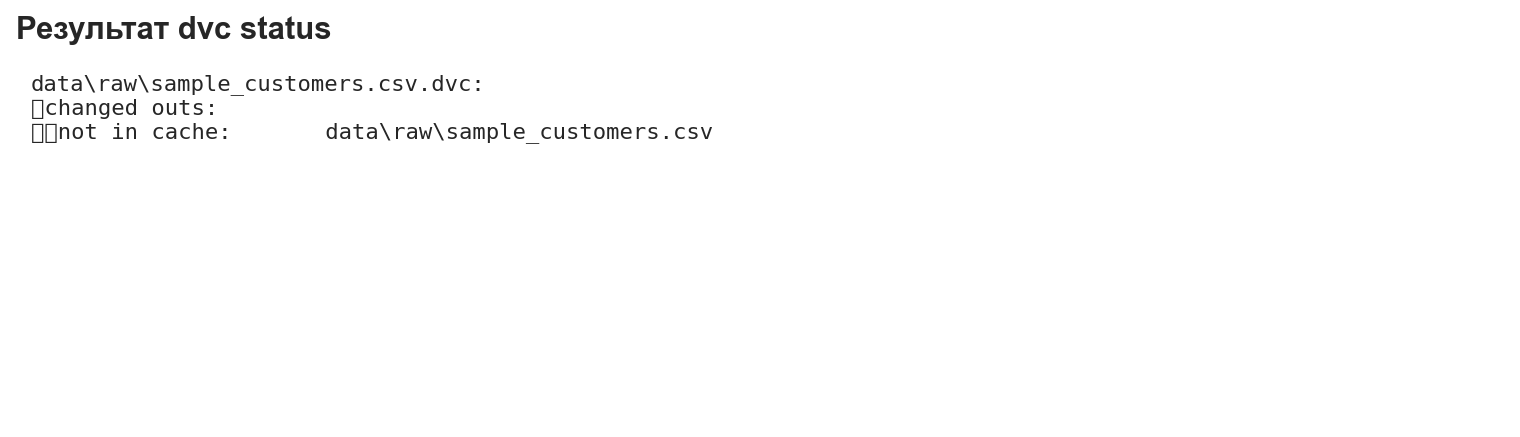
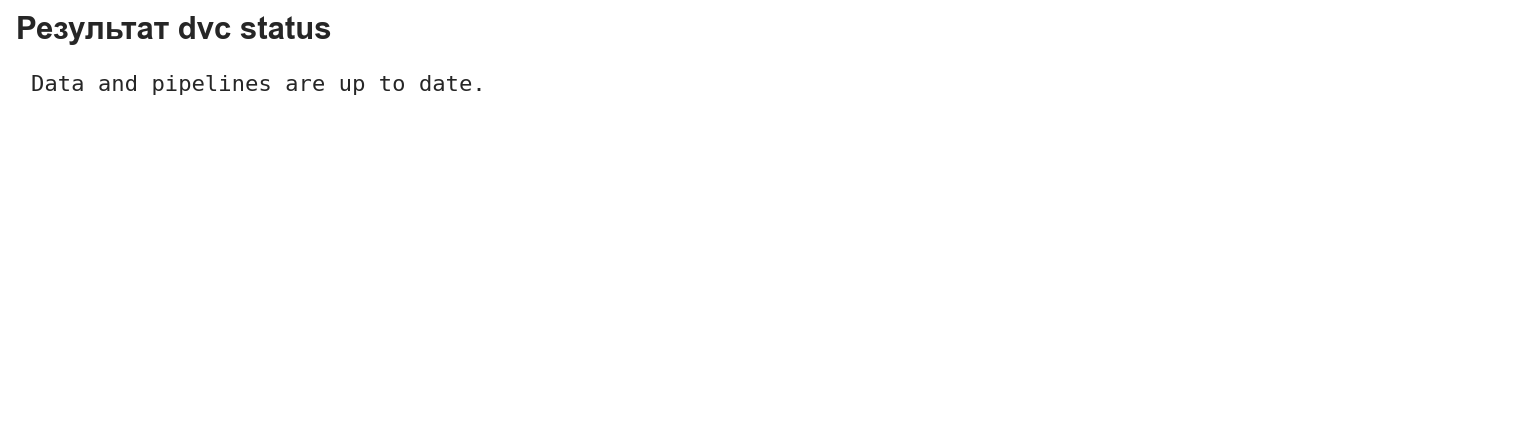
Remove obsolete DVC placeholder and refresh lab 1 evidence

Changed region(s): [[0.2164, 0.2677, 0.4638, 0.3272], [0.0, 0.238, 0.1546, 0.3272], [0.0, 0.1785, 0.3092, 0.2082]]

diff --git a/reports/lab1_summary.md b/reports/lab1_summary.md
@@ -89,7 +89,7 @@ ROC-AUC 0.9967 показывает, что модель почти идеаль
 Зависимости зафиксированы в `requirements.txt`. Полный Pipeline сохранён в
 `models/iris_pipeline.pkl` через cloudpickle и успешно загружен повторно;
 предсказания до и после загрузки совпали. Исходные данные, train/test и модель
-добавлены под контроль DVC. Новые артефакты Iris синхронизированы с локальным DVC-кэшем. Сообщение `not in cache` относится только к старому `sample_customers.csv`, который находился в репозитории до выполнения лабораторной.
+добавлены под контроль DVC. DVC не обнаружил изменений в контролируемых артефактах лабораторной; данные и модель синхронизированы с локальным DVC-кэшем.
 
 Таблицы метрик находятся в `reports`, графики — в `reports/figures`, а описание
 всех каталогов и инструкция запуска приведены в `README.md`.
